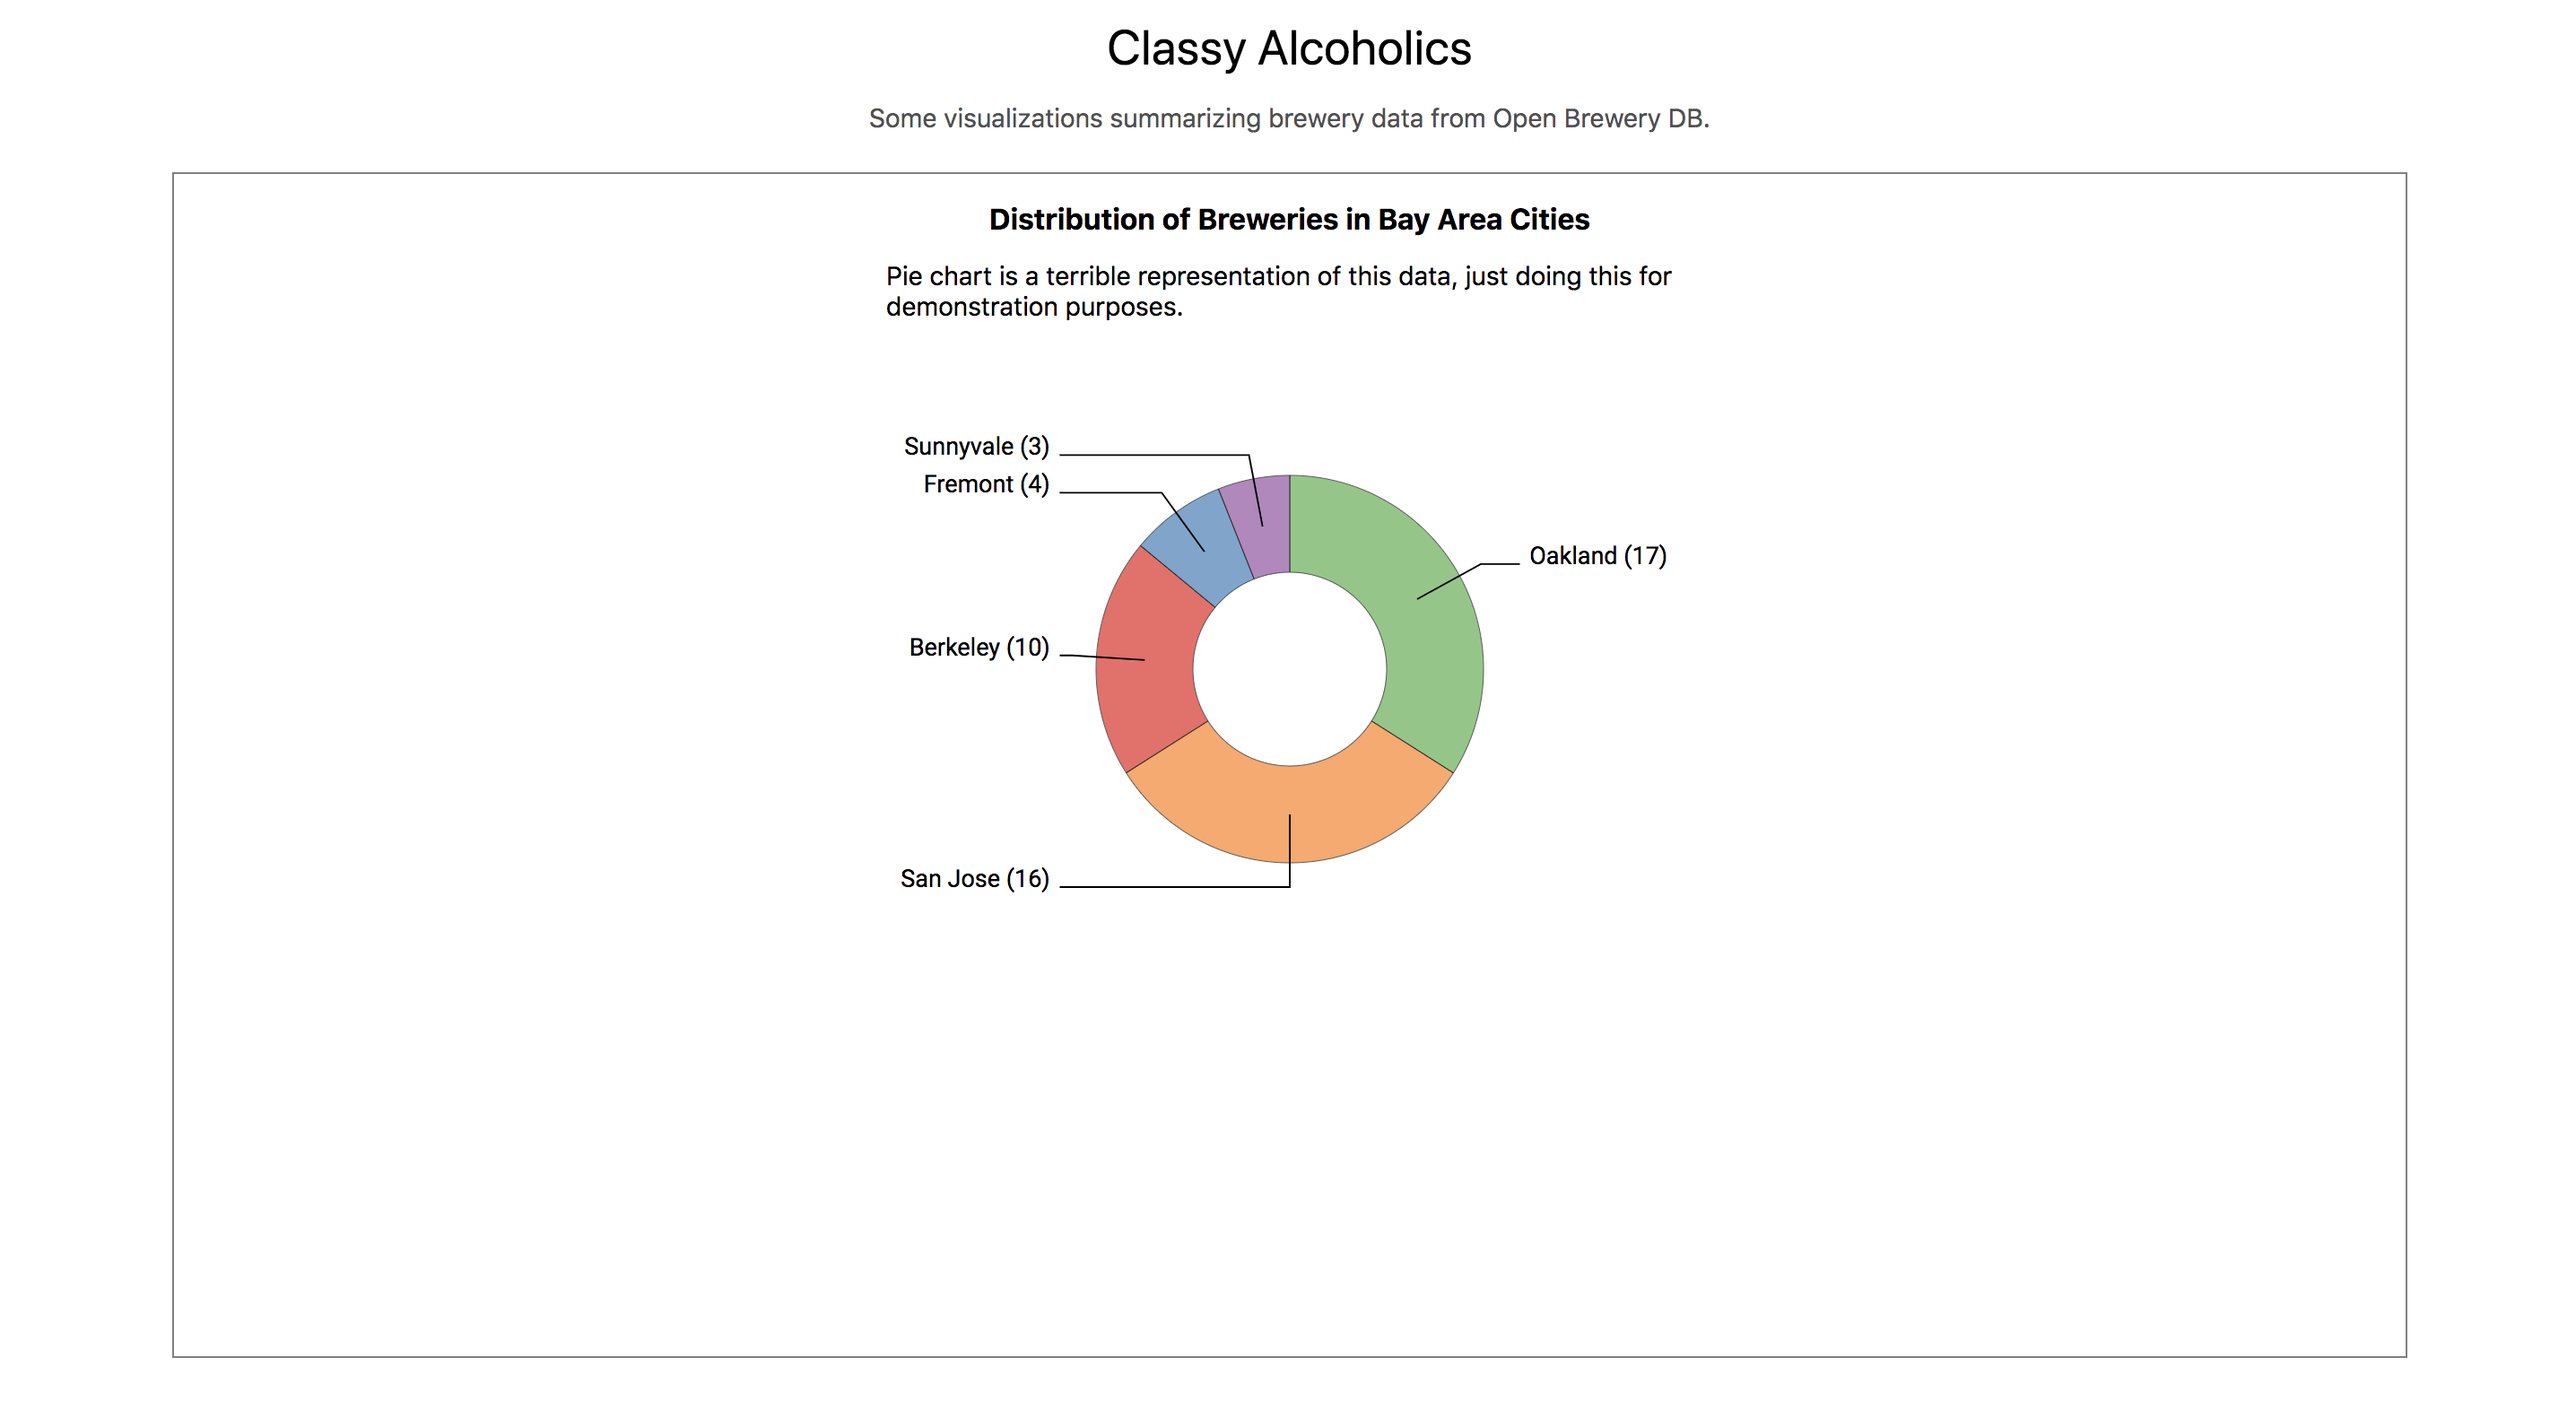
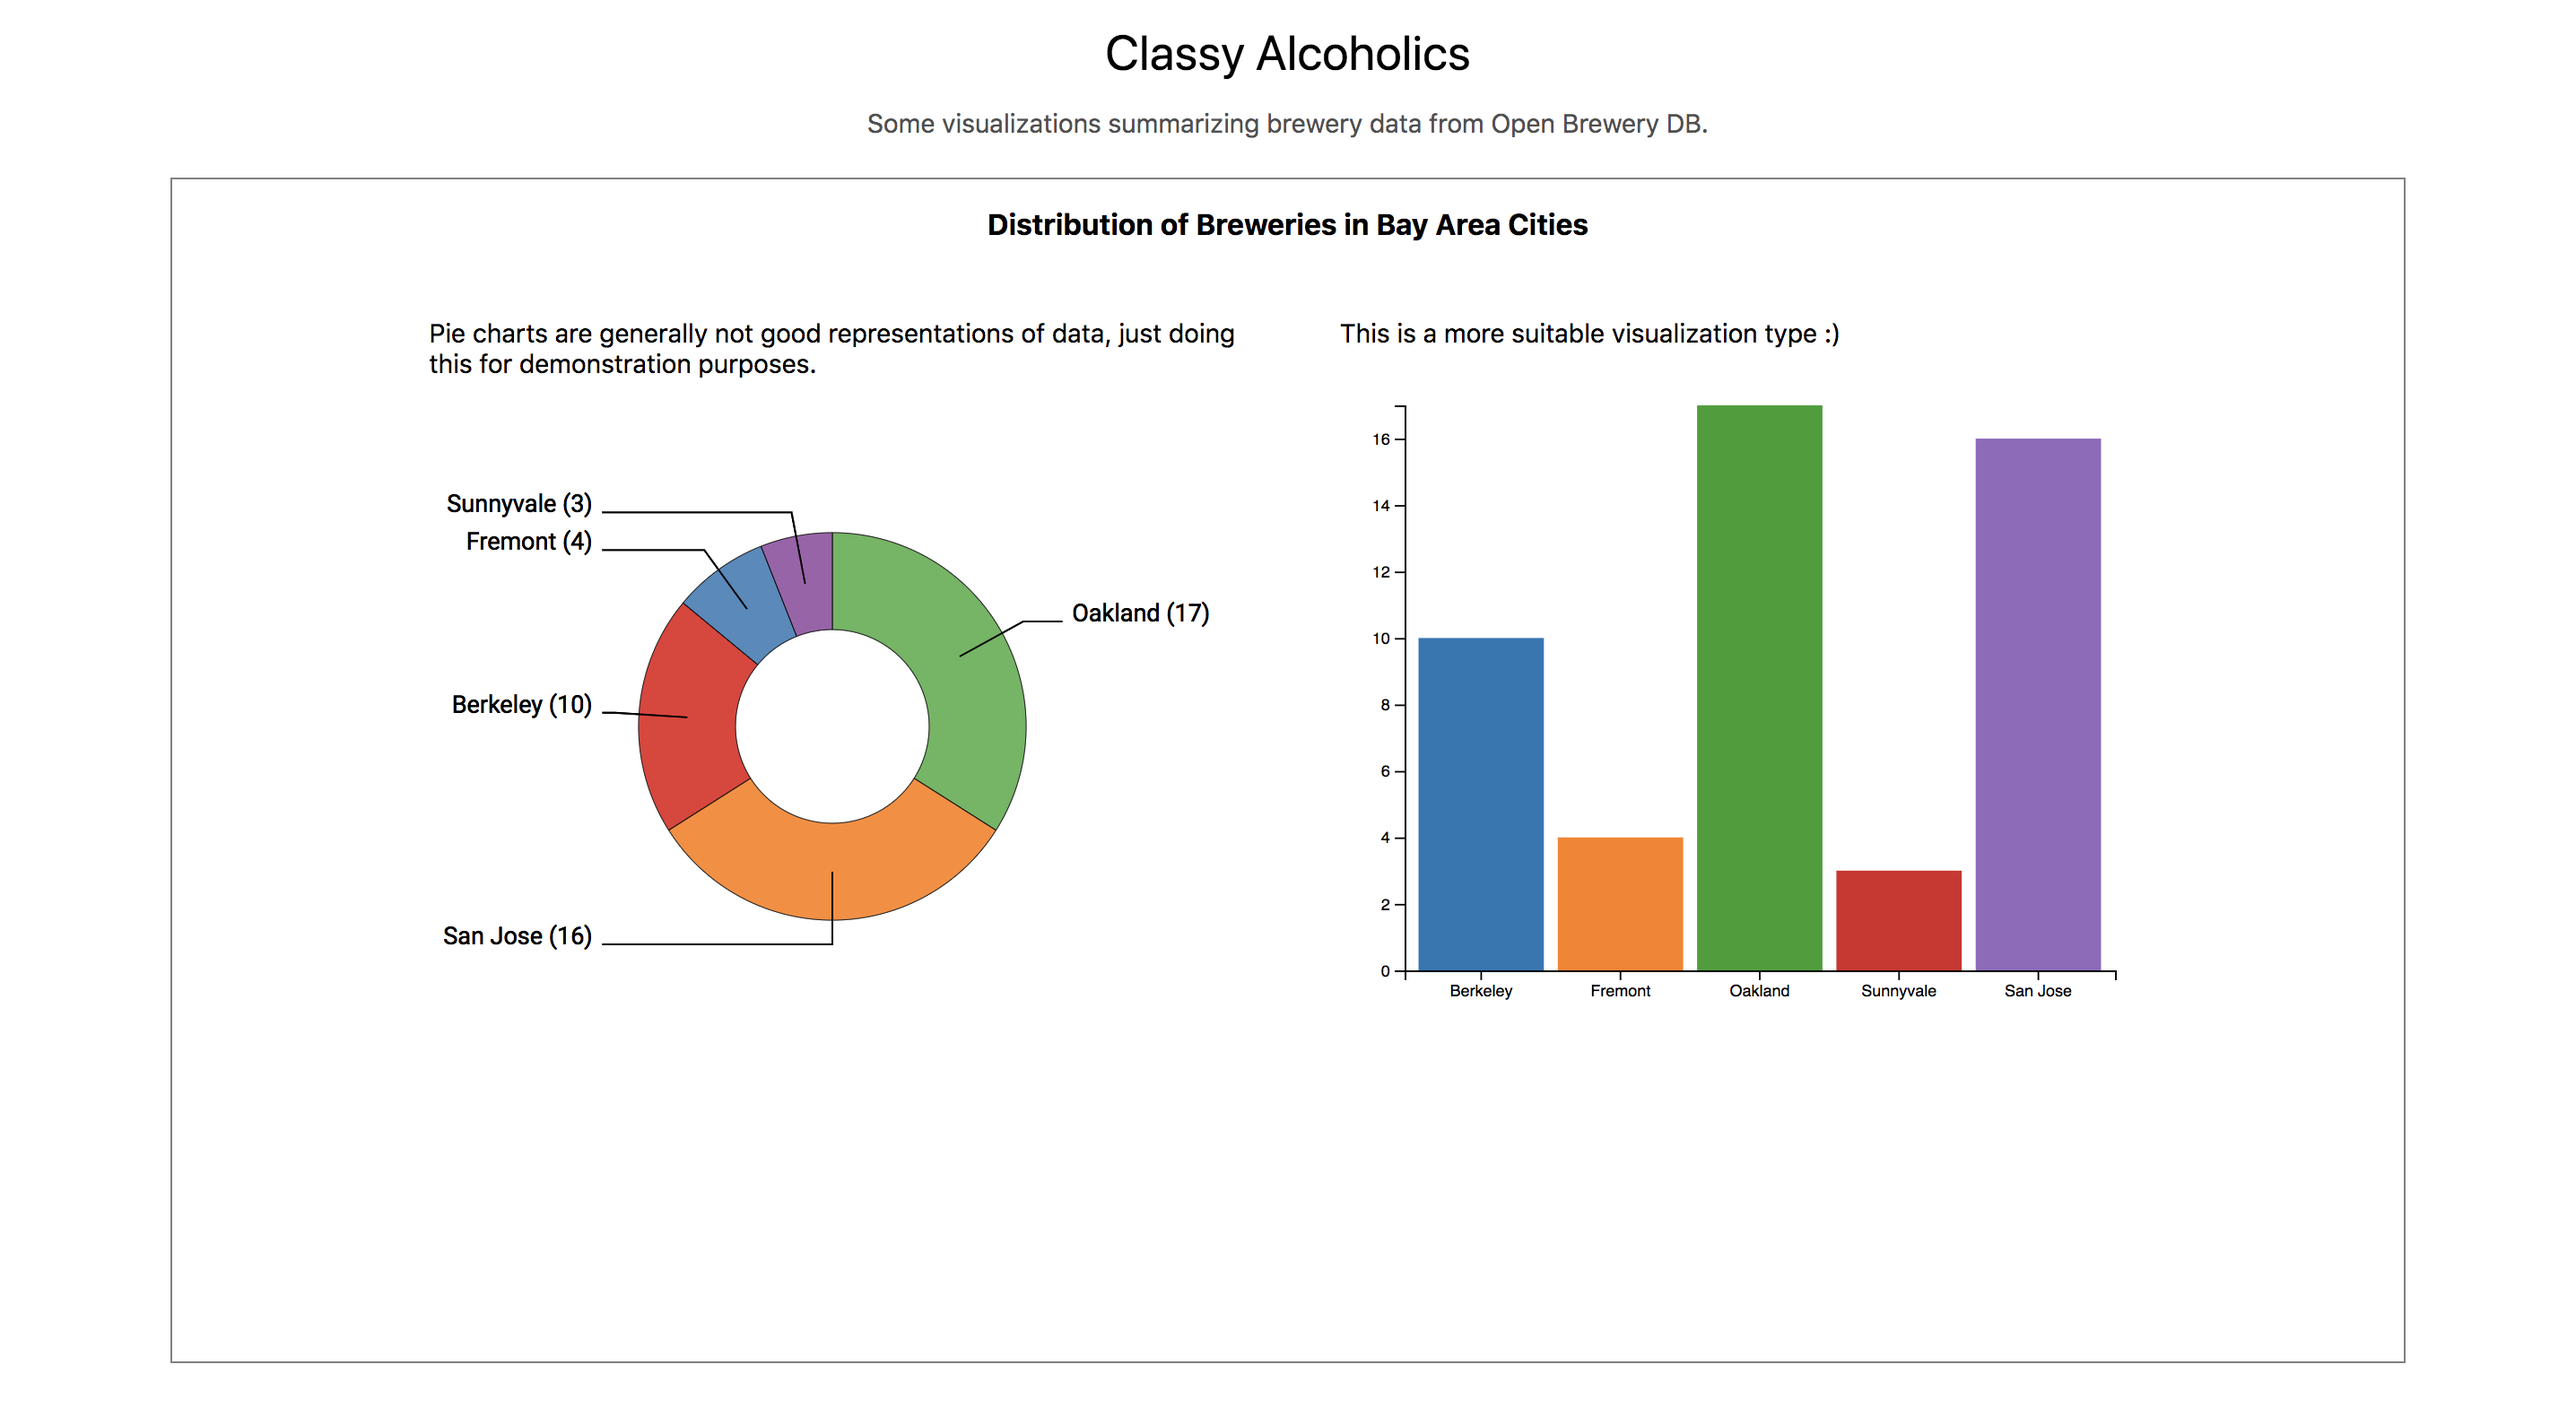
Update with additional chart

diff --git a/src/PieChart.js b/src/PieChart.js
@@ -21,14 +21,28 @@ class PieChart extends Component {
    }
 
    createPieChart() {
+      /***
+       * Standards for data visulization templates:
+       *   Use camelCase for all created names 
+       *   Initialize chart dimensions first before creating the canvas (see below)
+       *   Initialize svg directly after and any helper methods and functions
+       *   On each code block, comment on functionality beforehand
+       *   Place the main chart graphics before any labels and additions
+       *   Follow d3 format for chaining and annotations
+       *
+       * The following is an example of such a template:
+       ***/
+
+
       // set the dimensions and margins of the graph
       const width = 500;
       const height = 400;
       const margin = 100;
-      // The radius of the pieplot is half the width or half the height (larger one). I subtract a bit of margin.
+
+      // set radius of the pieplot to be half the width or half the height (larger one);a bit of margin is subtracted
       const radius = Math.max(width, height) / 2 - margin;
 
-      // get the data from props
+      // get the data from props (not necessary in Postman templates)
       const node = this.node;
       const data = this.props.data;
 
@@ -41,15 +55,15 @@ class PieChart extends Component {
       var color = scaleOrdinal().domain(data)
         .range(schemeSet1);
 
-      // Compute the position of each group on the pie:
+      // compute the position of each group on the pie
       var pieCompute = pie().value(function(d) {return d.value; });
       var data_ready = pieCompute(entries(data));
 
-      // shape helper to build arcs:
+      // shape helper to build arcs
       var arcGenerator = arc().innerRadius(radius * 0.4).outerRadius(radius * 0.8);
       var outerArc = arc().innerRadius(radius * 0.9).outerRadius(radius * 0.9);
 
-      // Build the pie chart: Basically, each part of the pie is a path that we build using the arc function.
+      // build the pie chart: each part of the pie is a path that we build using the arc function.
       svg
         .selectAll('mySlices')
         .data(data_ready)
@@ -61,6 +75,7 @@ class PieChart extends Component {
           .style("stroke-width", "0.5px")
           .style("opacity", 0.7);
 
+      // creates the labels for each pie chart slices
       svg
         .selectAll('allLabels')
         .data(data_ready)
@@ -80,6 +95,7 @@ class PieChart extends Component {
           .style("font-size", 15)
           .style("font-family", "Roboto");
 
+      // add polylines to connect labels to specific pie chart slices
       svg
         .selectAll('allPolylines')
         .data(data_ready)
@@ -89,9 +105,9 @@ class PieChart extends Component {
           .style("fill", "none")
           .attr("stroke-width", 1)
           .attr('points', function(d) {
-            var posA = arcGenerator.centroid(d); // line insertion in the slice
-            var posB = outerArc.centroid(d); // line break
-            var posC = outerArc.centroid(d); // Label position = almost the same as posB
+            var posA = arcGenerator.centroid(d);
+            var posB = outerArc.centroid(d); 
+            var posC = outerArc.centroid(d);
             var midangle = d.startAngle + (d.endAngle - d.startAngle) / 2;
             posC[0] = radius * 0.95 * (midangle < Math.PI ? 1 : -1); 
             return [posA, posB, posC];

diff --git a/src/DataFetch.js b/src/DataFetch.js
@@ -2,6 +2,7 @@ import React, { Component } from 'react';
 import './App.css';
 import axios from 'axios';
 import PieChart from './PieChart';
+import BarChart from './BarChart';
 
 const API_SERVER_HOST = process.env.REACT_APP_API_SERVER_HOST || "https://api.openbrewerydb.org";
 
@@ -9,12 +10,13 @@ class DataFetch extends Component {
 	constructor() {
     super();
  		this.state = {
-      pieData: {}, 
+	  pieData: {}, 
+	  barData: []
     }
   }
 
   componentDidMount() {
-  	const data = {};
+  	const pie = {};
   	axios.all([
 		    axios.get(API_SERVER_HOST + '/breweries?by_city=berkeley'),
 		    axios.get(API_SERVER_HOST + '/breweries?by_city=oakland'),
@@ -23,28 +25,58 @@ class DataFetch extends Component {
 		    axios.get(API_SERVER_HOST + '/breweries?by_city=san_jose'),
 		  ])
 		  .then(axios.spread((be, ok, fr, su, sj) => {
-		    data['Berkeley'] = be.data.length;
-		    data['Fremont'] = fr.data.length;
-		    data['Oakland'] = ok.data.length;
-		    data['Sunnyvale'] = su.data.length;
-		    data['San Jose'] = sj.data.length;
-		    this.setState({ pieData: data });
+		    pie['Berkeley'] = be.data.length;
+		    pie['Fremont'] = fr.data.length;
+		    pie['Oakland'] = ok.data.length;
+		    pie['Sunnyvale'] = su.data.length;
+		    pie['San Jose'] = sj.data.length;
+			this.setState({ pieData: pie });
+			
+			const bar = [
+				{ city: 'Berkeley',
+				  freq: be.data.length
+				},
+				{ city: 'Fremont',
+				  freq: fr.data.length
+				},
+				{ city: 'Oakland',
+				  freq: ok.data.length
+				},
+				{ city: 'Sunnyvale',
+				  freq: su.data.length
+				},
+				{ city: 'San Jose',
+				  freq: sj.data.length
+				}	
+			]
+			this.setState({ barData: bar });
 		  }));
   }
 
   render() {
     return (
     	<div>
-	    	<h3 className='Chart-title'>
-	        Distribution of Breweries in Bay Area Cities
-	      </h3>
-	      <p className='Chart-desc'>
-	      	Pie chart is a terrible representation of this data, just doing this for demonstration purposes.
-	      </p>
-	    	<PieChart data={this.state.pieData} />
+			<h3 className='Chart-title'>
+				Distribution of Breweries in Bay Area Cities
+			</h3>
+			<div className='Chart-row'>
+				<div className='Chart-item'>
+					<p className='Chart-desc'>
+						Pie charts are generally not good representations of data, just doing this for demonstration purposes.
+					</p>
+					<PieChart data={this.state.pieData} />
+				</div>
+				<div className='Chart-item'>
+					<p className='Chart-desc'>
+						This is a more suitable visualization type :) 
+					</p>
+					<BarChart data={this.state.barData} />
+				</div>
+			</div>
 	    </div>
     );
   }
 }
 
 export default DataFetch;
+

diff --git a/src/BarChart.js b/src/BarChart.js
@@ -1,0 +1,78 @@
+import React, { Component } from 'react';
+import './App.css';
+import * as d3 from 'd3';
+import { select } from 'd3-selection';
+
+class BarChart extends Component {
+   constructor(props){
+      super(props);
+      this.createBarChart = this.createBarChart.bind(this);
+   }
+
+   componentDidMount() {
+      this.createBarChart();
+   }
+
+   componentDidUpdate() {
+      this.createBarChart();
+   }
+
+   createBarChart() {
+
+    const node = this.node;
+    const data = this.props.data;
+    
+      // set the dimensions and margins of the graph
+    var margin = {top: 20, right: 20, bottom: 30, left: 40},
+    width = 500 - margin.left - margin.right,
+    height = 400 - margin.top - margin.bottom;
+    // set the ranges
+    var x = d3.scaleBand()
+        .domain(data.map(function(d) { return d.city; }))
+        .range([0, width])
+        .padding(0.1);
+    var y = d3.scaleLinear()
+        .domain([0, d3.max(data, function(d) { return d.freq; })])
+        .range([height, 0]);
+    const colorScale = d3.scaleOrdinal(d3.schemeCategory10);
+        
+    // append the svg object to the body of the page
+    // append a 'group' element to 'svg'
+    // moves the 'group' element to the top left margin
+    var svg = d3.select(node).append("svg")
+    .attr("width", width + margin.left + margin.right)
+    .attr("height", height + margin.top + margin.bottom)
+    .append("g")
+    .attr("transform", 
+        "translate(" + margin.left + "," + margin.top + ")");
+
+    // append the rectangles for the bar chart
+    svg.selectAll(".bar")
+    .data(data)
+    .enter().append("rect")
+    .attr("class", "bar")
+    .attr("x", (function(d) { return x(d.city); }))
+    .attr("width", x.bandwidth())
+    .attr("y", (function(d) { return y(d.freq); }))
+    .attr("height", (function(d) { return height - y(d.freq); }))
+    .style('fill', (d, i) => colorScale(i));
+
+    // add the x Axis
+    svg.append("g")
+    .attr("transform", "translate(0," + height + ")")
+    .call(d3.axisBottom(x));
+
+    // add the y Axis
+    svg.append("g")
+    .call(d3.axisLeft(y));
+
+   }
+
+   
+
+   render() {
+      return <svg ref={node => this.node = node} width={500} height={400} />
+   }
+}
+
+export default BarChart;

diff --git a/src/App.css b/src/App.css
@@ -43,3 +43,11 @@
 .Chart-desc {
   width: 500px;
 }
+
+.Chart-row {
+  display: inline-flex;
+}
+
+.Chart-item {
+  padding: 32px;
+}
